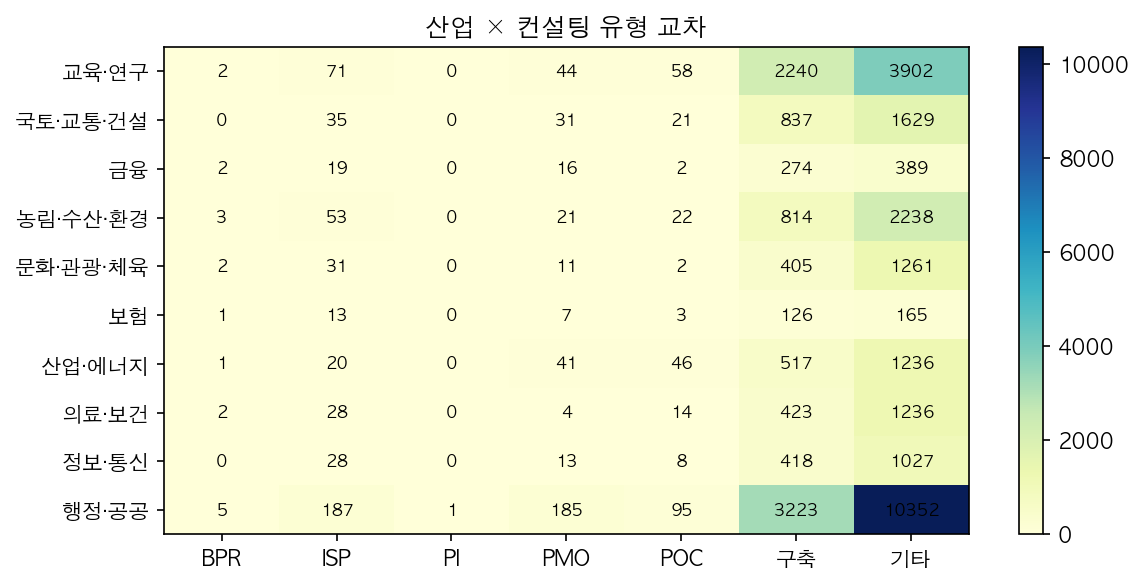
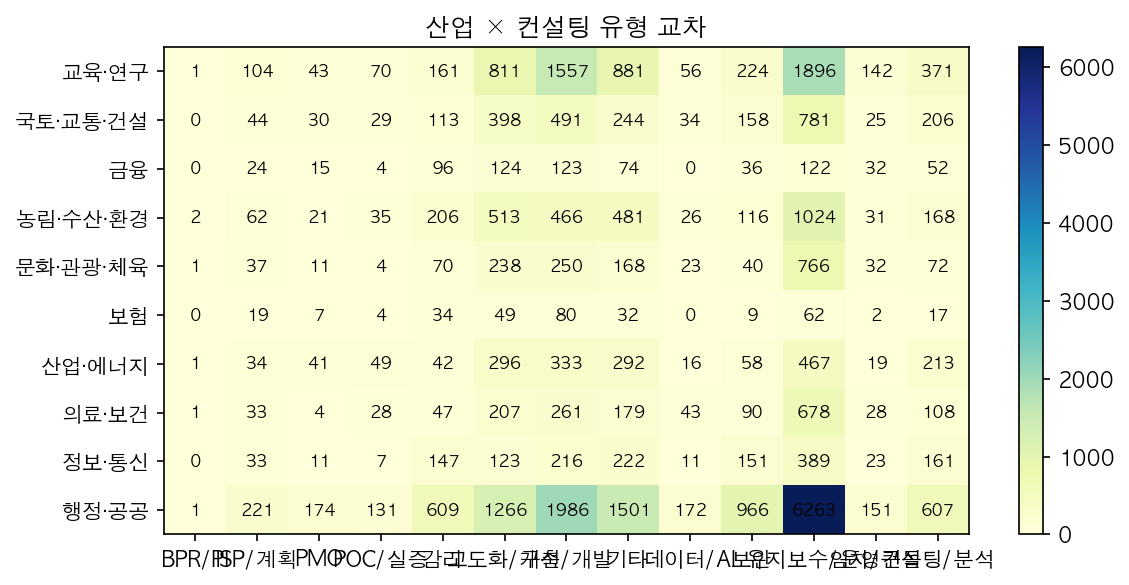
feat: IT 사업유형(consulting_type) 13범주로 확장 (기타 69%→12%)
유지보수운영/구축개발/고도화개선/컨설팅분석/보안/감리/ISP계획/임차구독/데이터AI/POC/PMO/BPRPI

diff --git a/src/preprocess_rfp.py b/src/preprocess_rfp.py
@@ -62,13 +62,25 @@ INDUSTRY_KEYWORDS = {
     "금융": ["은행", "금융", "증권", "카드", "거래소"],
 }
 
+# IT 사업유형 — 우선순위 순(특화 유형 먼저). 첫 매칭 채택 → '기타' 최소화.
 CONSULTING_TYPES = {
-    "ISP": ["ISP", "정보화전략계획", "정보전략계획"],
-    "PI": ["PI", "프로세스 혁신", "프로세스혁신"],
-    "POC": ["POC", "PoC", "개념검증", "실증"],
-    "BPR": ["BPR", "업무재설계", "업무 재설계", "업무 프로세스 재설계"],
-    "PMO": ["PMO", "사업관리"],
-    "구축": ["구축", "개발", "시스템 구축", "시스템구축"],
+    "감리": ["감리"],
+    "보안": ["보안", "정보보호", "취약점", "침해", "모의해킹", "관제", "ISMS",
+            "무인경비", "CCTV", "출입통제"],
+    "임차/구독": ["임차", "렌탈", "대여", "라이선스", "라이센스", "사용권",
+                "구독", "SaaS", "리스", "사용료"],
+    "ISP/계획": ["ISP", "ISMP", "정보화전략", "정보전략", "정보화계획",
+                "마스터플랜", "중장기계획", "정보화전략계획"],
+    "BPR/PI": ["BPR", "PI", "업무재설계", "프로세스혁신", "프로세스 혁신"],
+    "PMO": ["PMO", "사업관리", "통합사업관리"],
+    "POC/실증": ["POC", "PoC", "개념검증", "실증", "시범"],
+    "고도화/개선": ["고도화", "개선", "업그레이드", "재구축", "기능개선", "개량"],
+    "유지보수/운영": ["유지보수", "유지관리", "운영", "위탁운영", "헬프데스크",
+                    "운용", "상면", "유지"],
+    "데이터/AI": ["데이터구축", "DB구축", "학습데이터", "라벨링", "마이그레이션",
+                 "데이터이행", "데이터정제"],
+    "컨설팅/분석": ["컨설팅", "진단", "분석", "평가", "수립", "타당성"],
+    "구축/개발": ["구축", "개발", "시스템구축", "도입", "신규개발", "설치"],
 }
 
 # AI 순수성 분류 — KAIB2026(ETRI·국가AI전략위 기반) 방법론 참조